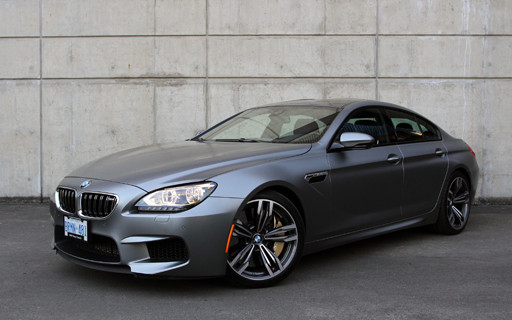
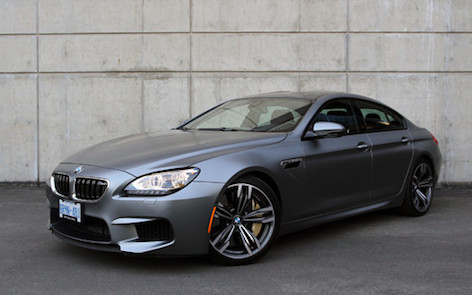
img aspect ratio changed

diff --git a/Practica02/index.html b/Practica02/index.html
@@ -189,15 +189,15 @@
     <div class="container" id="models">
         <div class="row">
             <div class="col-xs-4 mainPicture">
-                <img src="img/porsche4.jpg" width="100%" height="225">
+                <img src="img/porsche4.jpg" width="100%" style="display: block; max-height:225px; height: auto;">
             </div>
 
             <div class="col-xs-4 mainPicture">
-                <img src="img/BMW2.jpg" width="100%" height="225">
+                <img src="img/BMW2.jpg" width="100%" style="display: block; max-height:225px; height: auto;">
             </div>
 
             <div class="col-xs-4 mainPicture">
-                <img src="img/Mercedes4.jpg" width="100%" height="225">
+                <img src="img/Mercedes4.jpg" width="100%" style="display: block; max-height:225px; height: auto;">
             </div>
         </div>
 
@@ -215,20 +215,20 @@
                     <div class="pictures">
                         <div class="row">
                             <div class="col-xs-8 col-xs-offset-2">
-                                <img src="img/porsche3.jpg" class="bigPicture" width="100%" height="330px">
+                                <img src="img/porsche3.jpg" class="bigPicture" width="100%" style="display: block; max-height:400px; height: auto;">
                             </div>
                         </div>
 
                         <div class="row">
-                            <div class="col-xs-6 col-xs-offset-3">
+                            <div class="col-xs-8 col-xs-offset-2">
                                 <div class="col-xs-4">
-                                    <img src="img/porsche3.jpg" class="smallPicture" width="100%" height="75px">
+                                    <img src="img/porsche3.jpg" class="smallPicture" width="100%" style="display: block; max-height:100px; height: auto;">
                                 </div>
                                 <div class="col-xs-4">
-                                    <img src="img/porsche2.jpg" class="smallPicture" width="100%" height="75px">
+                                    <img src="img/porsche2.jpg" class="smallPicture" width="100%" style="display: block; max-height:100px; height: auto;">
                                 </div>
                                 <div class="col-xs-4">
-                                    <img src="img/porsche1.jpg" class="smallPicture" width="100%" height="75px">
+                                    <img src="img/porsche1.jpg" class="smallPicture" width="100%" style="display: block; max-height:100px; height: auto;">
                                 </div>
                             </div>
                         </div>
@@ -272,20 +272,20 @@
                     <div class="pictures">
                         <div class="row">
                             <div class="col-xs-8 col-xs-offset-2">
-                                <img src="img/BMW3.jpg" class="bigPicture" width="100%" height="330px">
+                                <img src="img/BMW3.jpg" class="bigPicture" width="100%" style="display: block; max-height:400px; height: auto;">
                             </div>
                         </div>
 
                         <div class="row">
-                            <div class="col-xs-6 col-xs-offset-3">
+                            <div class="col-xs-8 col-xs-offset-2">
                                 <div class="col-xs-4">
-                                    <img src="img/BMW3.jpg" class="smallPicture" width="100%" height="75px">
+                                    <img src="img/BMW3.jpg" class="smallPicture" width="100%" style="display: block; max-height:100px; height: auto;">
                                 </div>
                                 <div class="col-xs-4">
-                                    <img src="img/BMW1.jpeg" class="smallPicture" width="100%" height="75px">
+                                    <img src="img/BMW1.jpeg" class="smallPicture" width="100%" style="display: block; max-height:100px; height: auto;">
                                 </div>
                                 <div class="col-xs-4">
-                                    <img src="img/BMW4.jpg" class="smallPicture" width="100%" height="75px">
+                                    <img src="img/BMW4.jpg" class="smallPicture" width="100%" style="display: block; max-height:100px; height: auto;">
                                 </div>
                             </div>
                         </div>
@@ -329,20 +329,20 @@
                     <div class="pictures">
                         <div class="row">
                             <div class="col-xs-8 col-xs-offset-2">
-                                <img src="img/Mercedes1.jpg" class="bigPicture" width="100%" height="330px">
+                                <img src="img/Mercedes1.jpg" class="bigPicture" width="100%" style="display: block; max-height:400px; height: auto;">
                             </div>
                         </div>
 
                         <div class="row">
-                            <div class="col-xs-6 col-xs-offset-3">
+                            <div class="col-xs-8 col-xs-offset-2">
                                 <div class="col-xs-4">
-                                    <img src="img/Mercedes1.jpg" class="smallPicture" width="100%" height="75px">
+                                    <img src="img/Mercedes1.jpg" class="smallPicture" width="100%" style="display: block; max-height:100px; height: auto;">
                                 </div>
                                 <div class="col-xs-4">
-                                    <img src="img/Mercedes2.jpg" class="smallPicture" width="100%" height="75px">
+                                    <img src="img/Mercedes2.jpg" class="smallPicture" width="100%" style="display: block; max-height:100px; height: auto;">
                                 </div>
                                 <div class="col-xs-4">
-                                    <img src="img/Mercedes3.jpg" class="smallPicture" width="100%" height="75px">
+                                    <img src="img/Mercedes3.jpg" class="smallPicture" width="100%" style="display: block; max-height:100px; height: auto;">
                                 </div>
                             </div>
                         </div>
@@ -408,12 +408,12 @@
                 <li data-content="store">
                     <div class="buy">
                         <div class="row">
-                            <div class="col-xs-3 col-xs-offset-4"><p>Porsche Panamera</p></div>
+                            <div class="col-xs-5 col-md-3 col-xs-offset-3 col-md-offset-4"><p>Porsche Panamera</p></div>
                             <input class="value" type="number" min="1" style="width: 6%; color: black;" value="1">
                         </div>
 
                         <div class="row">
-                            <div class="col-xs-4 col-xs-offset-4">
+                            <div class="col-xs-6 col-md-4 col-xs-offset-3 col-md-offset-4">
                                 <button type="button" class="btn-lg btn-success buyButton" data-number="0" style="width: 100%;">Añadir al carrito</button>
                             </div>
                         </div>
@@ -421,12 +421,12 @@
 
                     <div class="buy">
                         <div class="row">
-                            <div class="col-xs-3 col-xs-offset-4"><p>BMW M6</p></div>
+                            <div class="col-xs-5 col-md-3 col-xs-offset-3 col-md-offset-4"><p>BMW M6</p></div>
                             <input class="value" type="number" min="1" style="width: 6%; color: black;" value="1">
                         </div>
 
                         <div class="row">
-                            <div class="col-xs-4 col-xs-offset-4">
+                            <div class="col-xs-6 col-md-4 col-xs-offset-3 col-md-offset-4">
                                 <button type="button" class="btn-lg btn-success buyButton" data-number="1" style="width: 100%;">Añadir al carrito</button>
                             </div>
                         </div>
@@ -434,12 +434,12 @@
 
                     <div class="buy">
                         <div class="row">
-                            <div class="col-xs-3 col-xs-offset-4"><p>Mercedes CLS</p></div>
+                            <div class="col-xs-5 col-md-3 col-xs-offset-3 col-md-offset-4"><p>Mercedes CLS</p></div>
                             <input class="value" type="number" min="1" style="width: 6%; color: black;" value="1">
                         </div>
 
                         <div class="row">
-                            <div class="col-xs-4 col-xs-offset-4">
+                            <div class="col-xs-6 col-md-4 col-xs-offset-3 col-md-offset-4">
                                 <button type="button" class="btn-lg btn-success buyButton" data-number="2" style="width: 100%;">Añadir al carrito</button>
                             </div>
                         </div>

diff --git a/Practica02/css/stylish.css b/Practica02/css/stylish.css
@@ -321,3 +321,7 @@ span i:nth-child(2){
 .carousel-inner {
     height: 100%;
 }
+
+.mainPicture {
+    height: 100%;
+}
